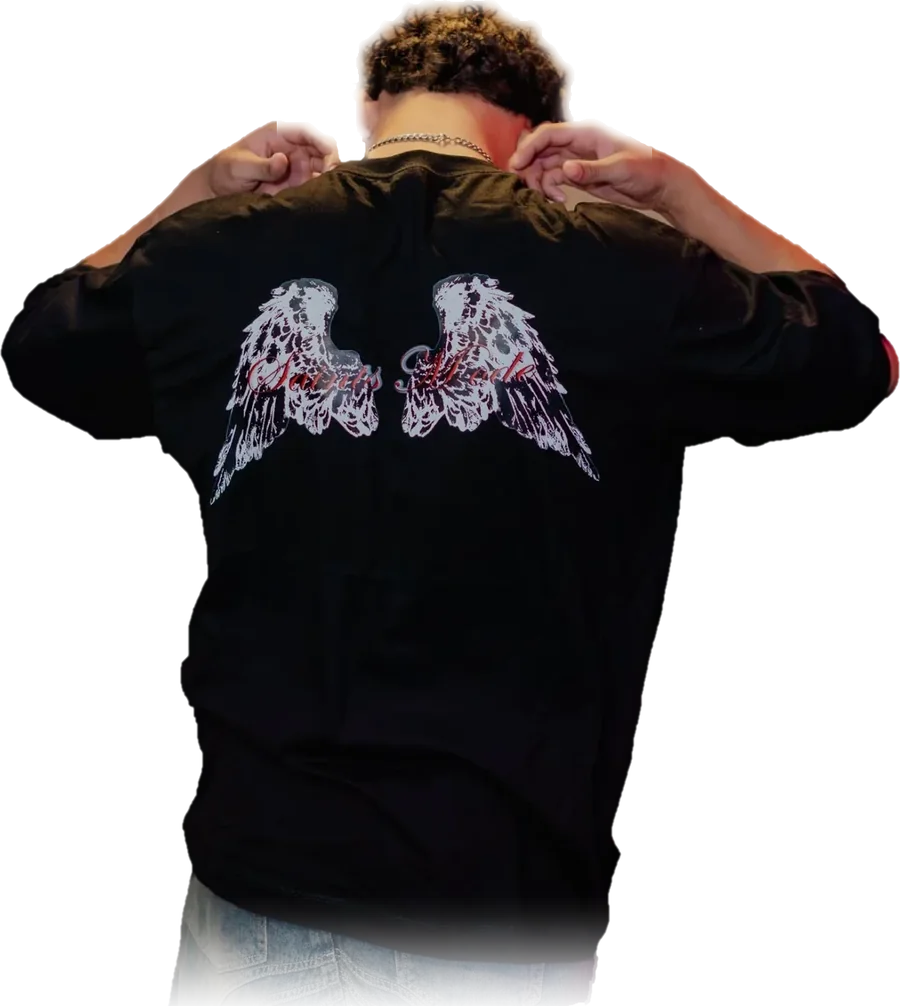
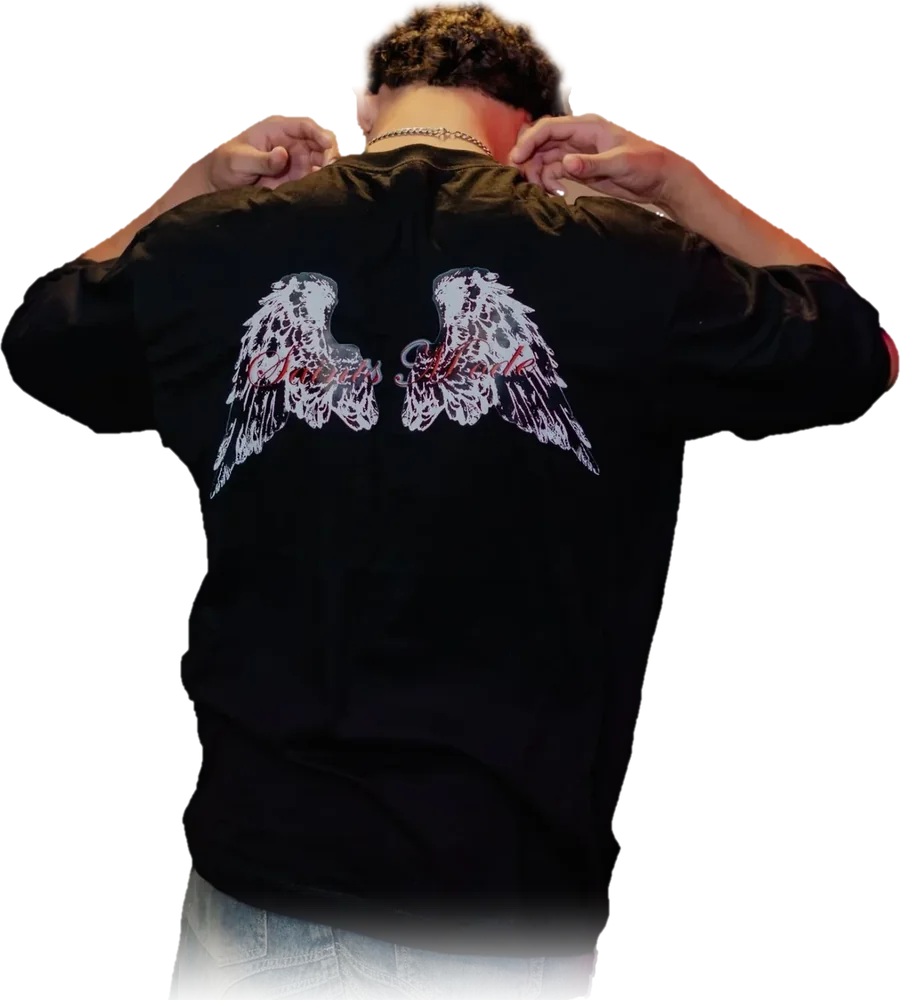
Modelo de rizos: dedos nítidos, pelo bien recortado, hueco de la mano transparente y borde del brazo liso
Claude-Session: https://claude.ai/code/session_013ynmKTYERfCmJQKP2pb1Nx

diff --git a/tools/recorte/retoques_saints.py b/tools/recorte/retoques_saints.py
@@ -1,0 +1,80 @@
+# Retoques a mano de las fotos de la Tee Saints Mode (modelo de rizos, camiseta negra):
+# zonas marcadas sobre la foto recortada por recortar.py. Se corre desde la carpeta de trabajo.
+import numpy as np, cv2
+from PIL import Image
+def hair_clean(a, y_max, band_px=14, strength=1.0, lum_min=70, sat_max=0.38, x_range=None):
+    """En la franja del borde del pelo, quita lo que tiene color de pared
+    (gris o beige apagado, más claro que el pelo) y suaviza el borde."""
+    rgb = a[..., :3]; al = a[..., 3] / 255.0
+    H = a.shape[0]
+    mx = rgb.max(-1); mn = rgb.min(-1); sat = (mx - mn) / np.maximum(mx, 1)
+    lum = rgb @ np.array([0.299, 0.587, 0.114])
+    solid = (al > 0.6).astype(np.uint8)
+    inner = cv2.erode(solid, np.ones((band_px, band_px), np.uint8))
+    band = (al > 0) & (inner == 0)
+    band[y_max:] = False
+    if x_range:
+        band[:, :x_range[0]] = False; band[:, x_range[1]:] = False
+    wall = band & (lum > lum_min) & (sat < sat_max)
+    w = cv2.GaussianBlur(wall.astype(np.float32), (5, 5), 0)
+    al = al * (1 - np.clip(w * 1.6 * strength, 0, 1))
+    # borde de pelo un poco más suave (difuminado)
+    soft = cv2.GaussianBlur(al, (0, 0), 1.6)
+    edge = band & (al > 0)
+    al = np.where(np.arange(H)[:, None] < y_max, np.where(edge, np.minimum(al, soft * 1.05), al), al)
+    a[..., 3] = np.clip(al * 255, 0, 255)
+    return a
+def hair_shrink(a, y_max, px=9, x_range=None):
+    """Mete el borde del pelo unos píxeles y lo difumina (se va el halo de pared)."""
+    al = a[..., 3] / 255.0
+    core = cv2.erode((al > 0.5).astype(np.uint8), np.ones((px, px), np.uint8)).astype(np.float32)
+    core = cv2.GaussianBlur(core, (0, 0), max(2.0, px * 0.18))
+    lim = np.ones_like(al); lim[:y_max] = core[:y_max]
+    ramp = np.clip((np.arange(al.shape[0])[:, None] - (y_max - 40)) / 40, 0, 1)  # transición suave hacia abajo
+    lim = lim * (1 - ramp) + ramp
+    if x_range:
+        xs = np.arange(al.shape[1])[None, :].astype(np.float32)
+        m = np.clip((xs - x_range[0]) / 18, 0, 1) * np.clip((x_range[1] - xs) / 18, 0, 1)  # transición suave a los lados
+        lim = lim * m + (1 - m)
+    a[..., 3] = np.minimum(al, lim) * 255
+    return a
+def load(p): return np.asarray(Image.open(p).convert('RGBA')).astype(np.float32)
+def fade(a, f0, f1):
+    H = a.shape[0]; y = np.arange(H) / H; k = np.clip((f1 - y) / (f1 - f0), 0, 1); k = k * k * (3 - 2 * k)
+    a[..., 3] *= k[:, None]; return a
+def done(a, out):
+    im = Image.fromarray(np.clip(a, 0, 255).astype(np.uint8), 'RGBA')
+    im = im.crop(im.getchannel('A').point(lambda v: 255 if v > 20 else 0).getbbox())
+    im.save(out, 'WEBP', quality=90, alpha_quality=95, method=6)
+# frente: franja de pared entre la camiseta y el borde derecho
+a = load('cut3/negro-chico-frente.webp')
+# pared beige debajo de la barbilla (polígono marcado a mano sobre la foto)
+poly = np.array([(611, 319), (652, 319), (662, 327), (680, 324), (693, 312), (834, 312), (834, 640), (611, 640)], np.int32)
+pm = np.zeros(a.shape[:2], np.uint8); cv2.fillPoly(pm, [poly * 4], 255, lineType=cv2.LINE_AA, shift=2)
+pm = cv2.GaussianBlur(pm.astype(np.float32) / 255, (3, 3), 0)
+a[..., 3] *= (1 - pm)
+# más abajo está su brazo con luz roja: solo se borra lo beige de la pared
+low = a[500:, 596:, :3]
+beige = (low.max(-1) > 72) & ((low[..., 0] - low[..., 1]) < 50)
+beige = cv2.dilate(beige.astype(np.uint8), np.ones((3, 3), np.uint8)).astype(np.float32)
+a[500:, 596:, 3] *= (1 - cv2.GaussianBlur(beige, (3, 3), 0))
+reg = a[480:1000, 570:700, 3] / 255.0
+sm = cv2.GaussianBlur(reg, (0, 0), 3.0)
+sm = np.clip((sm - 0.5) * 2.2 + 0.5, 0, 1)  # borde liso, sin picos
+a[480:1000, 570:700, 3] = np.minimum(reg, sm) * 255
+a = hair_clean(a, 330)
+a = hair_shrink(a, 300, 9, (430, 834))
+done(fade(a, 0.80, 0.93), 'cut5_negro-chico-frente.webp')
+a = load('cut3/negro-chico-espalda.webp')
+# hueco entre la mano derecha y la camiseta: se ve la pared → transparente
+poly = np.array([(650, 229), (680, 233), (700, 240), (730, 251), (760, 263), (792, 276), (790, 283), (760, 273), (728, 263), (700, 256), (682, 251), (668, 251), (663, 263), (654, 259), (651, 240)], np.int32)
+pm = np.zeros(a.shape[:2], np.uint8); cv2.fillPoly(pm, [poly], 1)
+rgb = a[..., :3]; mx = rgb.max(-1); sat = (mx - rgb.min(-1)) / np.maximum(mx, 1)
+lum = rgb @ np.array([0.299, 0.587, 0.114])
+gap = (pm > 0) & (lum > 120) & (sat < 0.26)
+gap = cv2.GaussianBlur(cv2.dilate(gap.astype(np.uint8), np.ones((3, 3), np.uint8)).astype(np.float32), (3, 3), 0)
+a[..., 3] *= (1 - gap)
+# pelo: solo la zona del pelo (no las manos), recorte más adentro
+a = hair_clean(a, 165, band_px=28, lum_min=38, sat_max=0.26, x_range=(380, 712))
+a = hair_shrink(a, 160, 23, (380, 712))
+done(fade(a, 0.84, 0.97), 'cut5_negro-chico-espalda.webp')
